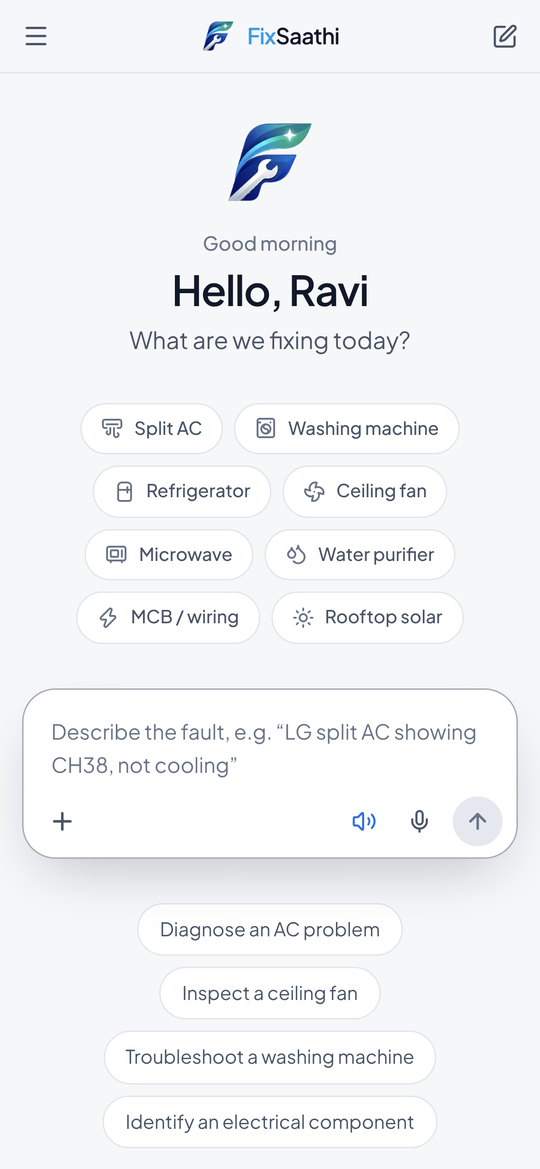
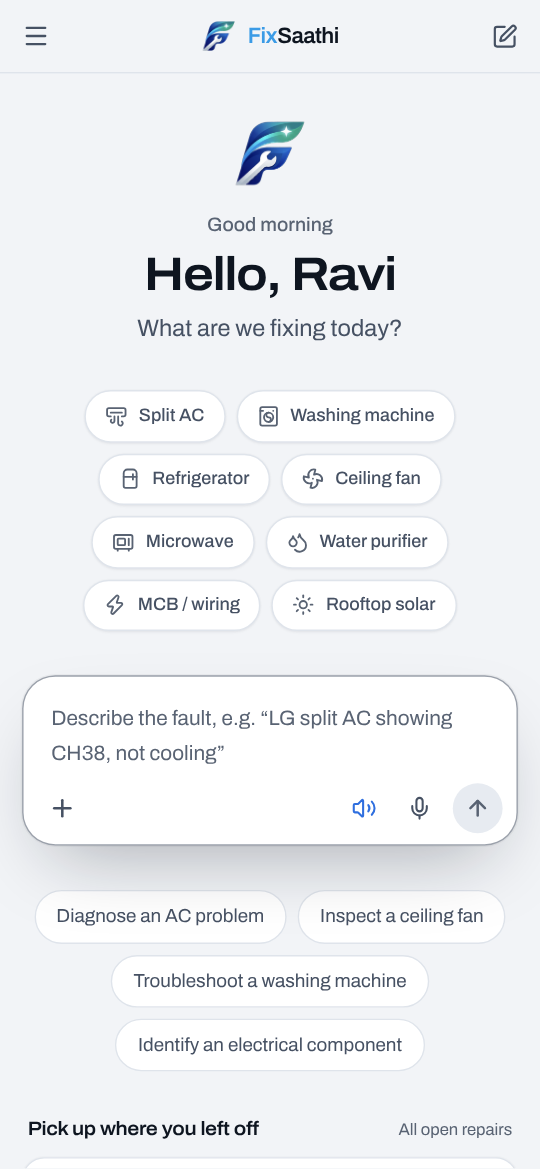
README: screenshots of the new design, test counts

diff --git a/README.md b/README.md
@@ -10,7 +10,7 @@
 ![FastAPI](https://img.shields.io/badge/FastAPI-PostgreSQL-009688?logo=fastapi&logoColor=white)
 ![Gemini](https://img.shields.io/badge/Google_Gemini-RAG_+_Live_voice-4285F4?logo=google&logoColor=white)
 [![CI](https://github.com/priyamthakur275/FixSathi/actions/workflows/ci.yml/badge.svg)](https://github.com/priyamthakur275/FixSathi/actions/workflows/ci.yml)
-![Tests](https://img.shields.io/badge/tests-401-2ea44f)
+![Tests](https://img.shields.io/badge/tests-407-2ea44f)
 ![Deploy](https://img.shields.io/badge/deployed_on-Render-46E3B7?logo=render&logoColor=white)
 [![License: MIT](https://img.shields.io/badge/license-MIT-blue)](LICENSE)
 
@@ -88,8 +88,8 @@ flowchart TD
 ## Engineering
 
 - **Backend:** FastAPI, SQLAlchemy 2, Alembic, PostgreSQL 16, `google-genai`. JWT access and refresh tokens, organisation-scoped access for managers, rate-limited sign-in, a per-account AI quota so one public sign-up cannot use up the Gemini key, uploads checked by content and re-encoded without location data.
-- **Frontend:** React 19, TypeScript, Vite, Tailwind 4, Framer Motion, Recharts. Mobile-first, works on a phone browser. Checked with axe-core: no WCAG 2 AA violations on the main screens in either theme (the wordmark logo excepted).
-- **Tests:** 401 automated tests: 344 backend tests run the real Alembic migrations on PostgreSQL with Gemini replaced by a deterministic fake, and 57 frontend tests (Vitest, Testing Library). Plus the offline evaluation above.
+- **Frontend:** React 19, TypeScript, Vite, Tailwind 4, Framer Motion, Recharts. Mobile-first, works on a phone browser. Archivo at two widths (expanded for headings and figures); red and green are kept for power state only, and the safety panel draws the breaker the technician has switched off. A command palette (Ctrl K / Cmd K) reaches every page and past repair, and the team dashboard refreshes itself every minute. Checked with axe-core: no WCAG 2 AA violations on the main screens in either theme (the wordmark logo excepted).
+- **Tests:** 407 automated tests: 344 backend tests run the real Alembic migrations on PostgreSQL with Gemini replaced by a deterministic fake, and 63 frontend tests (Vitest, Testing Library). Plus the offline evaluation above.
 - **Data pipeline:** `scripts/process_datasets.py` normalises the sources into one schema with licence and verification status per record; `scripts/dataset_quality_report.py` reports coverage. See [docs/DATASET_ARCHITECTURE.md](docs/DATASET_ARCHITECTURE.md).
 - **Deployment:** one Render Blueprint ([`render.yaml`](render.yaml)): static site, API and PostgreSQL. Secrets live only in Render's environment; a scheduled GitHub Action keeps the free-plan API awake, and CI runs every test and the evaluation on each push.
 
